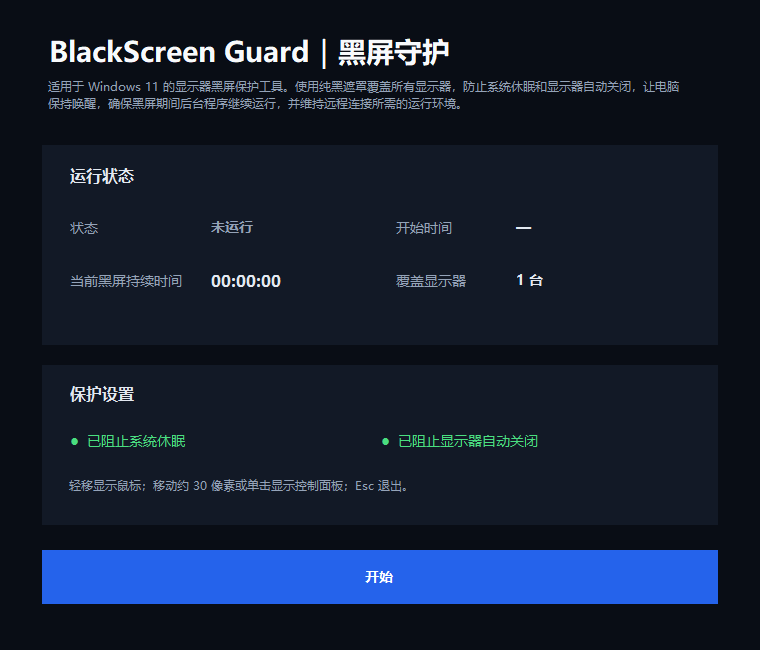
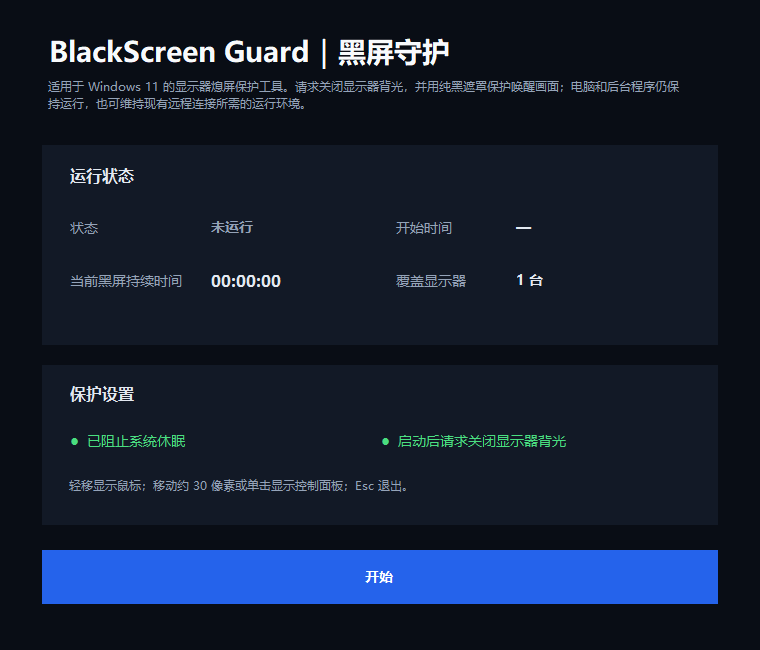
Turn displays off during blackout

Changed region(s): [[0.3632, 0.1231, 0.9079, 0.1846], [0.5145, 0.6462, 0.7566, 0.7077], [0.0605, 0.1231, 0.3329, 0.1846]]

diff --git a/README_EN.md b/README_EN.md
@@ -8,7 +8,7 @@
   English | <a href="README.md">简体中文</a>
 </p>
 
-A multi-monitor blackout utility for Windows 11. It covers every connected display with a pure-black overlay, prevents idle sleep and automatic display power-off, keeps the computer awake, allows background applications to continue running, and maintains the operating environment required by existing remote connections.
+A multi-monitor display-off utility for Windows 11. It first covers every display with a pure-black overlay and then asks Windows to turn the displays off, while keeping the computer, background applications, and existing remote sessions running.
 
 ## Interface preview
 
@@ -20,13 +20,13 @@ A multi-monitor blackout utility for Windows 11. It covers every connected displ
 
 ### Blackout control panel
 
-After selecting **Start**, the application first covers every display with a pure-black image.
+After selecting **Start**, the application covers every display with a pure-black image and then asks Windows to turn off the display backlights.
 
 <p align="center">
   <img src="assets/screenshots/blackout.png" width="960" alt="BlackScreen Guard pure-black screen">
 </p>
 
-Move the pointer by about 30 pixels or click during blackout to reveal the **Continue Blackout** and **Exit** controls.
+Mouse or keyboard input wakes the displays. Move the pointer by about 30 pixels or click to reveal the **Continue Blackout** and **Exit** controls. Selecting **Continue Blackout** turns the displays off again.
 
 <p align="center">
   <img src="assets/screenshots/blackout-control.png" width="960" alt="BlackScreen Guard blackout control panel">
@@ -34,8 +34,9 @@ Move the pointer by about 30 pixels or click during blackout to reveal the **Con
 
 ## Features
 
-- Covers every connected monitor with a pure-black window
-- Prevents idle system sleep and automatic display power-off
+- Asks Windows to turn off every connected display so supported LCD backlights actually switch off
+- Keeps a pure-black window ready to protect the picture when input wakes a display
+- Prevents idle system sleep while allowing the displays to remain off
 - Keeps background applications and existing network sessions running
 - Captures ordinary keyboard and mouse input inside the blackout windows
 - Hides the pointer after about 1.2 seconds of inactivity and reveals it on movement
@@ -70,8 +71,10 @@ pnpm install
 
 ## How it works and limitations
 
-- The blackout is a topmost pure-black window; it does not physically turn off the monitor. An LCD backlight normally remains on.
-- The application uses Windows `SetThreadExecutionState` to request prevention of idle sleep and automatic display power-off.
+- The application uses Windows `SC_MONITORPOWER` to request display power-off and `SetThreadExecutionState` only to prevent idle system sleep, so background applications can keep running.
+- On most built-in panels and power-management-capable external monitors, display-off actually switches off the LCD backlight. The graphics driver, monitor firmware, and connection ultimately determine whether the request is honored; the pure-black overlay remains as a fallback.
+- Mouse or keyboard input, system notifications, and some peripherals can wake a display. After input becomes idle, or when **Continue Blackout** is selected, the application requests display-off again.
+- On OLED displays, pure-black pixels normally emit no light, but the application still requests display-off to reduce power use.
 - Domain policies, security software, network loss, shutdowns, restarts, and power loss can still affect background applications and remote connectivity.
 - `Ctrl + Alt + Delete` is a Windows secure attention sequence and cannot—and should not—be intercepted by a regular application.
 

diff --git a/README.md b/README.md
@@ -8,7 +8,7 @@
   <a href="README_EN.md">English</a> | 简体中文
 </p>
 
-适用于 Windows 11 的多显示器黑屏保护工具。使用纯黑遮罩覆盖所有显示器，防止系统休眠和显示器自动关闭，让电脑保持唤醒，确保黑屏期间后台程序继续运行，并维持远程连接所需的运行环境。
+适用于 Windows 11 的多显示器熄屏保护工具。启动后先用纯黑遮罩覆盖所有显示器，再请求 Windows 关闭显示器；电脑和后台程序继续运行，并可维持现有远程连接所需的运行环境。
 
 ## 界面预览
 
@@ -20,13 +20,13 @@
 
 ### 黑屏控制面板
 
-点击“开始”后，程序首先以纯黑画面覆盖所有显示器。
+点击“开始”后，程序首先以纯黑画面覆盖所有显示器，随后请求 Windows 关闭显示器背光。
 
 <p align="center">
   <img src="assets/screenshots/blackout.png" width="960" alt="BlackScreen Guard 纯黑画面">
 </p>
 
-黑屏后移动鼠标约 30 像素或单击，即可显示“继续黑屏”和“退出程序”控制面板。
+移动鼠标或按键会唤醒显示器。移动鼠标约 30 像素或单击，即可显示“继续黑屏”和“退出程序”控制面板；选择“继续黑屏”后会再次熄屏。
 
 <p align="center">
   <img src="assets/screenshots/blackout-control.png" width="960" alt="BlackScreen Guard 黑屏控制面板">
@@ -34,8 +34,9 @@
 
 ## 功能
 
-- 使用纯黑窗口覆盖所有已连接的显示器
-- 阻止因系统闲置而自动休眠或关闭显示器
+- 请求 Windows 关闭所有已连接的显示器，使受支持的 LCD 背光真正熄灭
+- 使用纯黑窗口保护显示器被输入唤醒后的画面
+- 阻止系统因闲置而自动休眠，同时允许显示器保持关闭
 - 黑屏期间继续运行后台程序和现有网络会话
 - 拦截黑屏窗口内的普通按键与鼠标点击，减少误操作
 - 鼠标静止约 1.2 秒后自动隐藏，移动时立即显示
@@ -70,8 +71,10 @@ pnpm install
 
 ## 工作方式与限制
 
-- 黑屏由置顶的纯黑窗口实现，并不真正关闭显示器。LCD 显示器的背光通常仍然开启。
-- 程序使用 Windows `SetThreadExecutionState` 请求阻止闲置休眠和显示器自动关闭。
+- 程序使用 Windows `SC_MONITORPOWER` 请求关闭显示器，并使用 `SetThreadExecutionState` 只阻止系统闲置休眠；后台程序仍可继续运行。
+- 在大多数内置屏幕和支持电源管理的外接显示器上，关屏会使 LCD 背光真正熄灭。是否响应该请求最终取决于显卡驱动、显示器固件和连接方式；不响应时仍会保留纯黑遮罩作为后备。
+- 鼠标、键盘、系统通知或某些外设可能唤醒显示器。无操作时程序会再次请求关屏；选择“继续黑屏”也会立即进入下一次关屏。
+- OLED 显示器显示纯黑时像素本身通常已不发光，但本程序仍会请求系统关屏以降低耗电。
 - 公司域策略、安全软件、断网、关机、重启或断电仍可能影响后台程序和远程连接。
 - `Ctrl + Alt + Delete` 属于 Windows 安全序列，普通应用无法也不应拦截。
 
